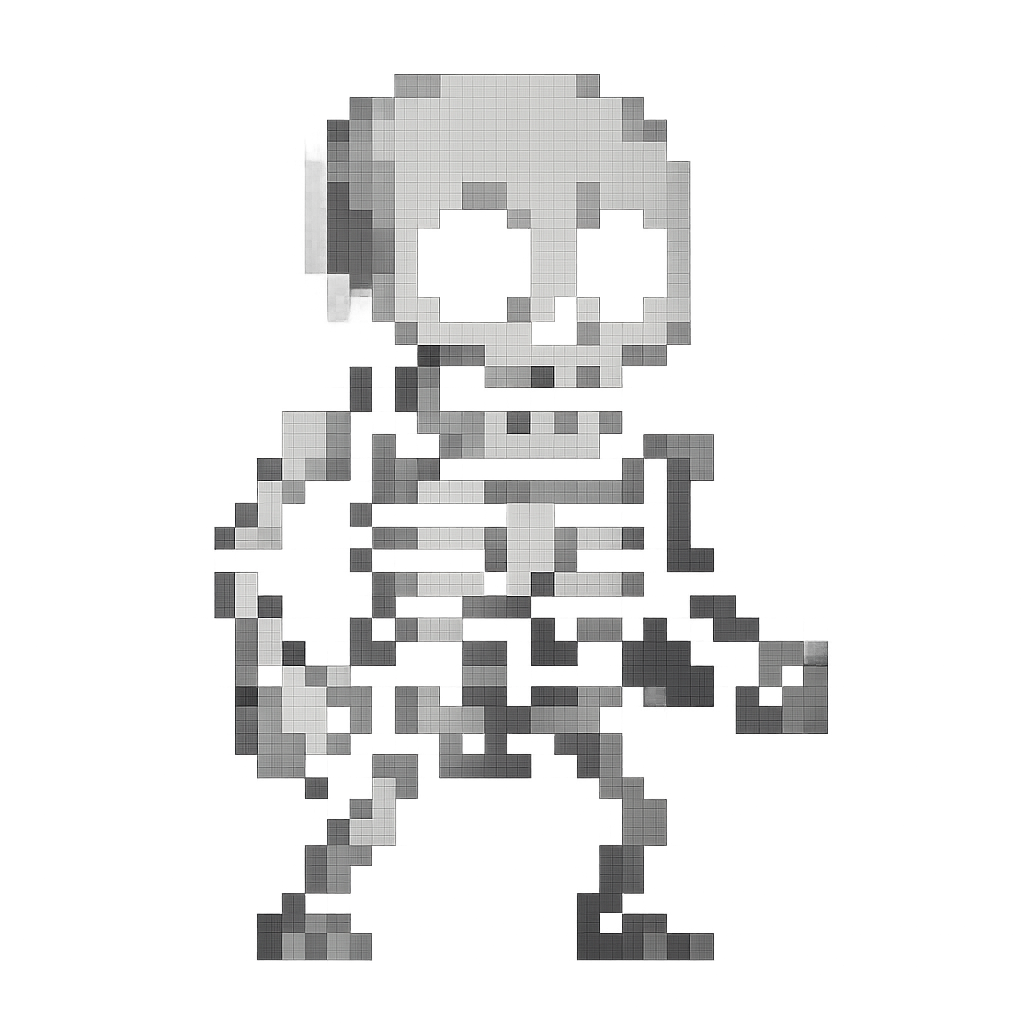
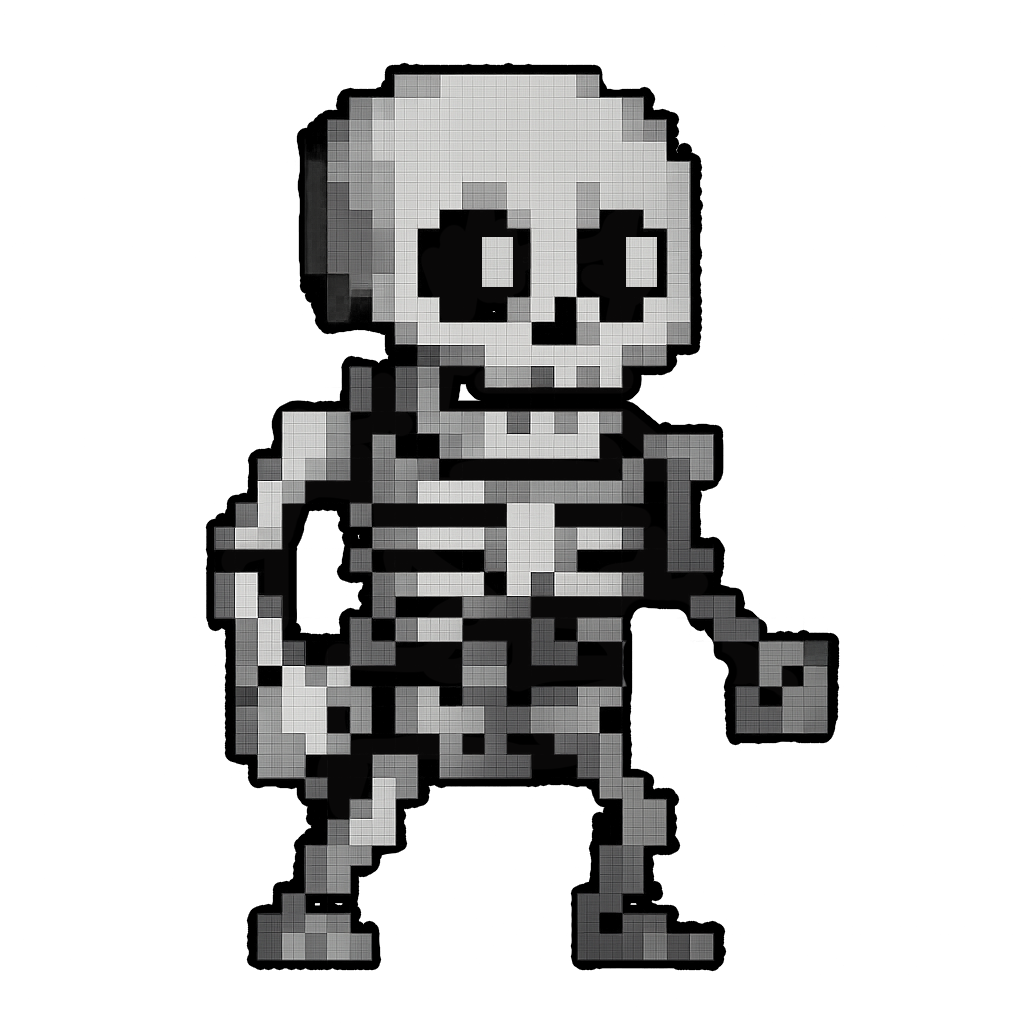
2 new types and update skeleton pic

Changed region(s): [[0.1875, 0.0625, 0.8438, 0.9688]]

diff --git a/frontend/src/hooks/useMatchmaking.js b/frontend/src/hooks/useMatchmaking.js
@@ -1,7 +1,6 @@
 import { useEffect, useRef, useState } from "react";
 import { useNavigate } from "react-router-dom";
 import toast from "react-hot-toast";
-import { auth } from "@/firebase";
 import { getMatchSocket, clearMatchSocket } from "@/api/ws";
 
 

diff --git a/backend/app/db.py b/backend/app/db.py
@@ -38,10 +38,10 @@ async def fetch_or_create_player(user) -> Dict:
         }
         await doc_ref.set(pdata)
 
-    # adding new fields for Player
-    for field, default in {"type": random.choice(player_types), "total_won": 0}.items():
-        if not pdata.get(field):
-            pdata[field] = default
+    # # adding new fields for Player
+    # for field, default in {"type": random.choice(player_types), "total_won": 0}.items():
+    #     if not pdata.get(field):
+    #         pdata[field] = default
 
     await doc_ref.set(pdata)
 

diff --git a/backend/app/schemas/type.py b/backend/app/schemas/type.py
@@ -1,1 +1,1 @@
-player_types = ["businessman", "skeleton"]
+player_types = ["businessman", "skeleton", "witch", "elf"]
